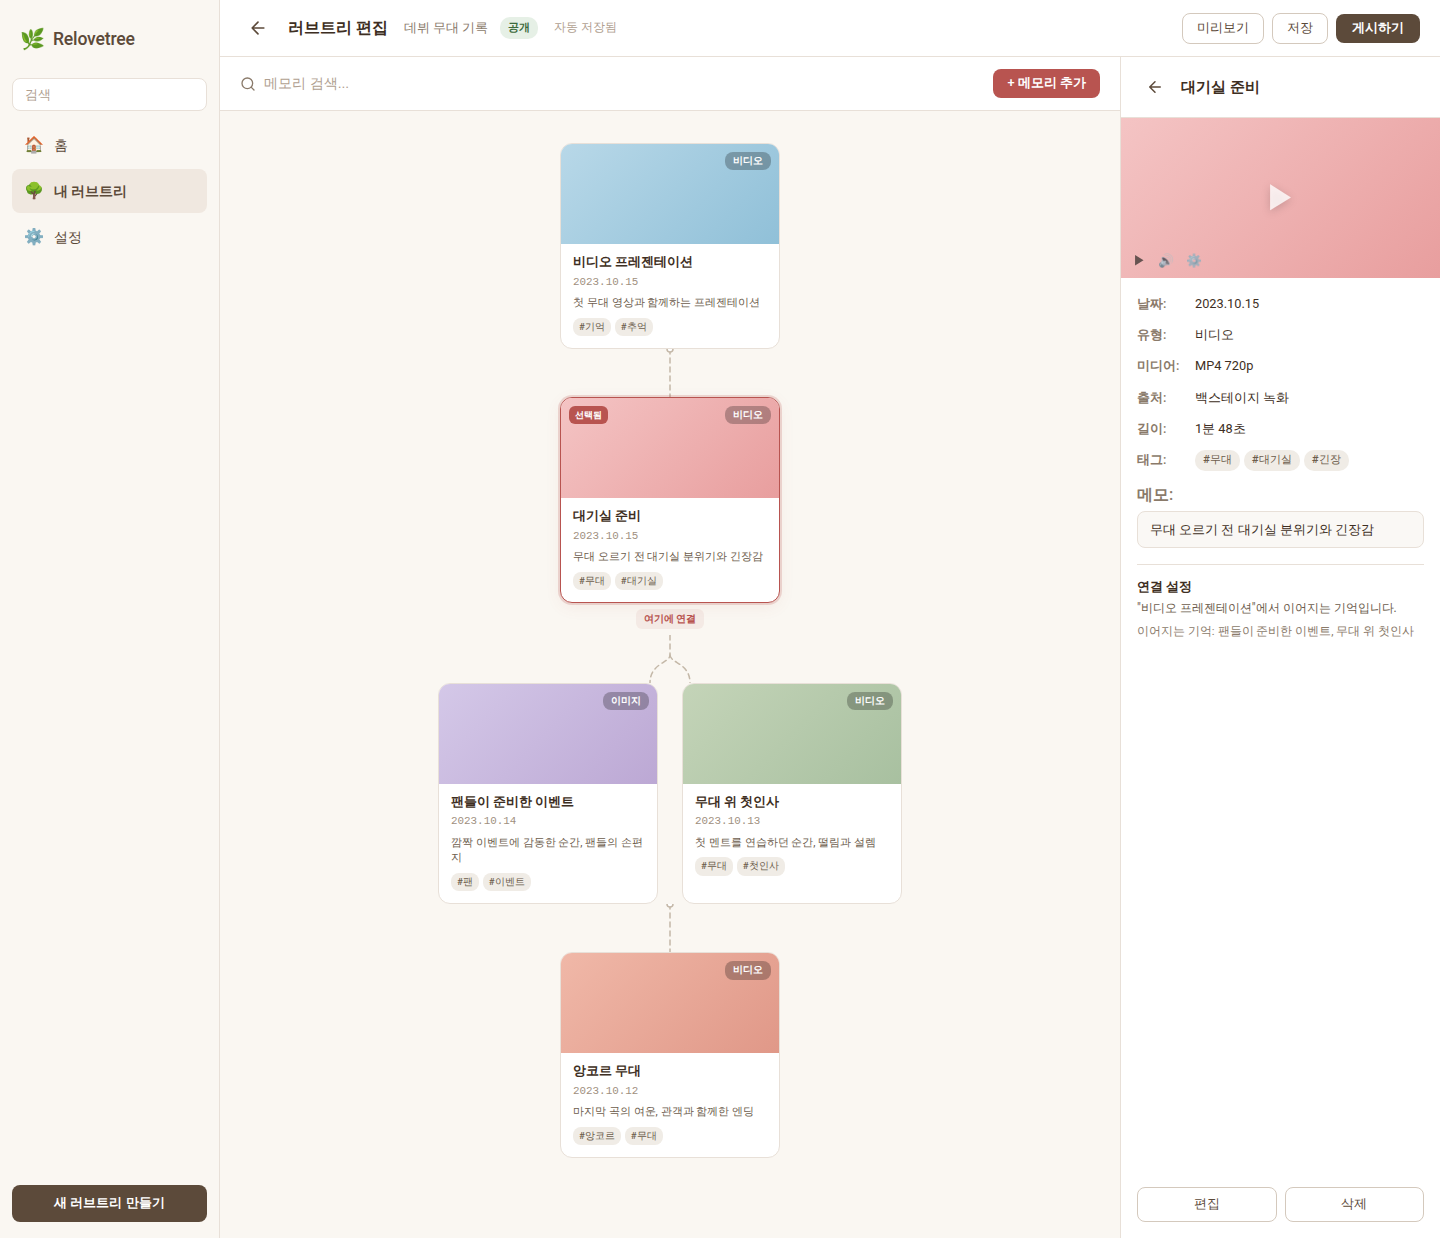
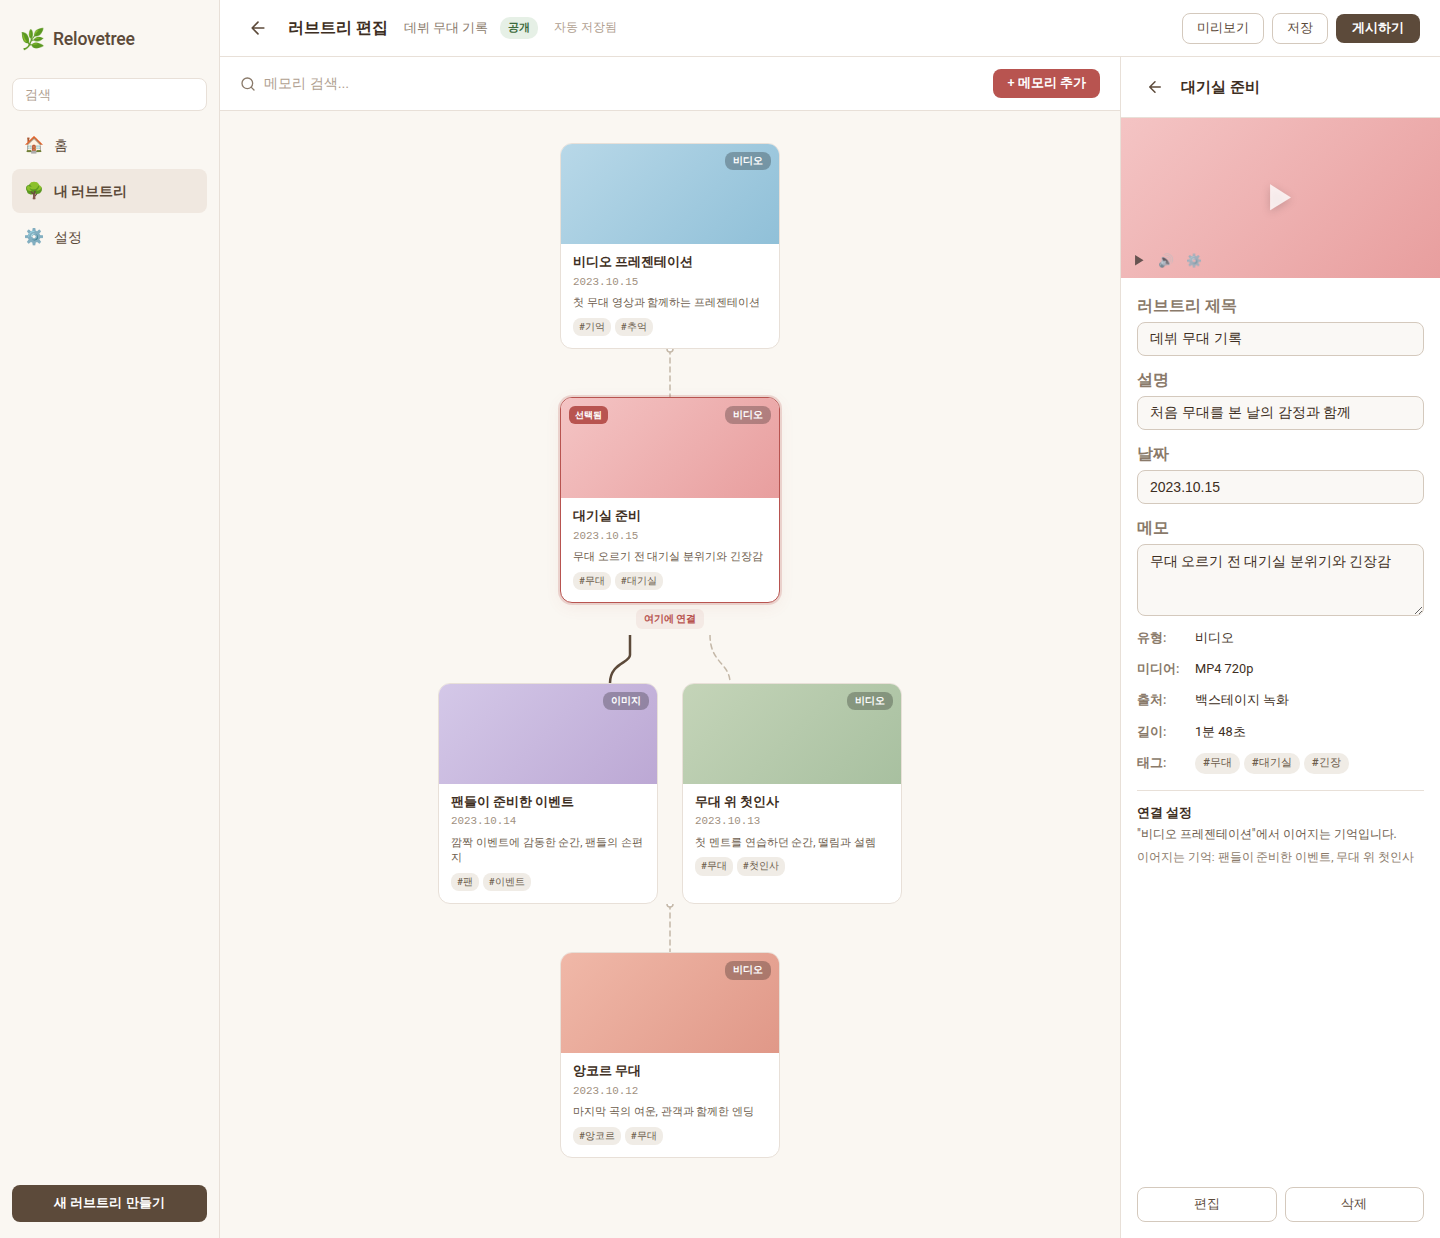
docs: refresh tree editor contract evidence

Changed region(s): [[0.7812, 0.2456, 0.9688, 0.706]]

diff --git a/docs/evidence/tree-editor-visual/visual-validation.md b/docs/evidence/tree-editor-visual/visual-validation.md
@@ -4,47 +4,56 @@
 
 | File | Dimensions | SHA-256 |
 |---|---|---|
[5 lines of base64/hex data omitted]
 
-**Visual source commit:** `cd8402c90f0a3c41410ba51d2c96d8aff12769f0`
-**Captured from:** `https://b1365af0.lovetree3.pages.dev/tree/edit-demo`
+**Preview URL:** `https://413cdaa9.lovetree3.pages.dev/tree/edit-demo`
+**Visual source commit:** `495a9007f05b0c11db095cbb99be2b27b28968e1`
[1 lines of base64/hex data omitted]
-**Browser:** Chromium (Playwright headless)
-**Viewport DPR:** 1x
+**Browser:** Chromium 137.0 (Playwright headless)
+**Viewport DPR:** 1x (all viewports)
 
 ---
 
 ## Validation Checklist
 
-### Desktop 3-Panel Layout
-- [x] Left workspace navigation (brand, search, nav items, new tree button)
-- [x] Editor toolbar (back, title, visibility, save status, actions)
-- [x] Tree canvas with hierarchy structure
-- [x] Right inspector panel with full metadata
+### Desktop 1440px — 3-Panel Layout
+- [x] Left workspace navigation: brand, search, 홈/내 러브트리/설정, 새 러브트리 만들기
+- [x] Editor toolbar: 뒤로 가기, 러브트리 편집, 트리 제목, 공개 badge, 자동 저장, 미리보기/저장/게시하기
+- [x] Tree canvas: 5 nodes, 4 connectors, branch group, insert marker
+- [x] Inspector: read-only fields (러브트리 제목, 설명, 날짜, 메모), metadata, connection context
+
+### Connectors
+- [x] 4 logical connectors with `data-connector-id`
+- [x] 1 highlighted connector: conn-2 (mem-2 → mem-3)
+- [x] conn-1: mem-1 → mem-2 (dashed)
+- [x] conn-3: mem-2 → mem-4 (dashed)
+- [x] conn-4: mem-4 → mem-5 (dashed)
 - [x] No horizontal overflow
-- [x] No toolbar clipping
+- [x] Connector alignment with nodes
 
-### Tree Canvas
-- [x] 5 memory nodes with relationship hierarchy
-- [x] 4 DOM-flow connectors (3 straight + 1 branch)
-- [x] Branch group with 2 child nodes side by side
-- [x] Selected node "대기실 준비" with badge and border
-- [x] Insert marker after selected node
-- [x] Node metadata: title, date, type, description, tags
+### Read-Only Fields
+- [x] 러브트리 제목: `<input readOnly>` with `<label>`
+- [x] 설명: `<input readOnly>` with `<label>`
+- [x] 날짜: `<input readOnly>` with `<label>`
+- [x] 메모: `<textarea readOnly>` with `<label>`
+- [x] No clipping on read-only fields
 
-### Inspector
-- [x] Title matches selected node
-- [x] Media preview placeholder with controls
-- [x] Date, type, media format, source, duration
-- [x] Tags rendered
-- [x] Memo content
-- [x] Connection context (parent + children)
-- [x] Edit/Delete buttons (presentation-only)
+### Inspector Consistency
+- [x] Title matches selected node "대기실 준비"
+- [x] Date matches: 2023.10.15
+- [x] Connection context: "비디오 프레젠테이션에서 이어지는 기억"
+- [x] Children: "팬들이 준비한 이벤트, 무대 위 첫인사"
 
-### Responsive
-- [x] Mobile 390px: single column, no sidebar
-- [x] Tree nodes stacked vertically with connectors
+### Intermediate 900px
+- [x] Compact navigation or hidden sidebar
+- [x] Canvas and inspector readable
+- [x] No excessive vertical stacking
+
+### Mobile 390px
+- [x] Single column flow
+- [x] Tree nodes stacked vertically
 - [x] Inspector below canvas
 - [x] No horizontal overflow
 - [x] All actions visible
@@ -53,6 +62,7 @@
 - [x] No button role on articles
 - [x] No tabIndex on articles
 - [x] No draggable on articles
-- [x] All inputs read-only
-- [x] cursor: default on all interactive elements
-- [x] 0 console/page/request errors
+- [x] cursor: default on cards
+- [x] 0 console errors
+- [x] 0 page errors
+- [x] 0 failed requests

diff --git a/docs/evidence/tree-editor-visual/known-visual-differences.md b/docs/evidence/tree-editor-visual/known-visual-differences.md
@@ -4,21 +4,25 @@
 
 | Area | Reference | Implementation | Reason |
 |---|---|---|---|
-| Node icons | Custom illustrations per memory | Emoji placeholders | No custom image assets in mock data |
+| Node icons | Custom illustrations per memory | Emoji-free gradient thumbnails with type badge | No custom image assets in mock data |
 | Canvas connectors | Organic curved lines between scattered nodes | DOM-flow straight/branch SVG connectors | CSS/SVG range only, no external libs |
-| Node layout | Free-form scattered with organic curves | Centered vertical tree with branch rows | DOM-flow approach for stability |
-| Inspector media | Full video player | Gradient placeholder with play icon | Presentation-only, no real media |
+| Node layout | Free-form scattered with organic curves | Centered vertical tree with branch rows | DOM-flow approach for layout stability |
+| Inspector media | Full video player with timeline | Gradient placeholder with play icon | Presentation-only, no real media |
 | Background | Warm gradient with depth | Flat warm background | CSS only |
 | Left sidebar icons | Custom SVG icons | Emoji icons | No custom icon assets |
 | Brand logo | Custom tree illustration | 🌿 emoji | No custom logo assets |
+| Highlighted connector | Thick colored line | Solid dark line (#5c4a3a, 2.5px) | Visual emphasis preserved |
 
 ## What IS matching
 - 3-panel layout (nav / canvas / inspector)
 - 5 memory nodes with full metadata
 - Tree relationship hierarchy with branching
-- 4 connectors (3 straight + 1 branch)
+- 4 data-driven connectors with semantic attributes
+- 1 highlighted connector (conn-2: mem-2 → mem-3)
 - Selected node with visual emphasis (border + badge)
 - Insert marker after selected
-- Inspector with media preview, metadata, tags, memo, connection context
+- Inspector with read-only fields (러브트리 제목, 설명, 날짜, 메모)
+- Inspector metadata (type, media, source, duration, tags)
+- Connection context (parent + children)
 - All presentation-only contracts
 - Responsive 3-panel → single-column
